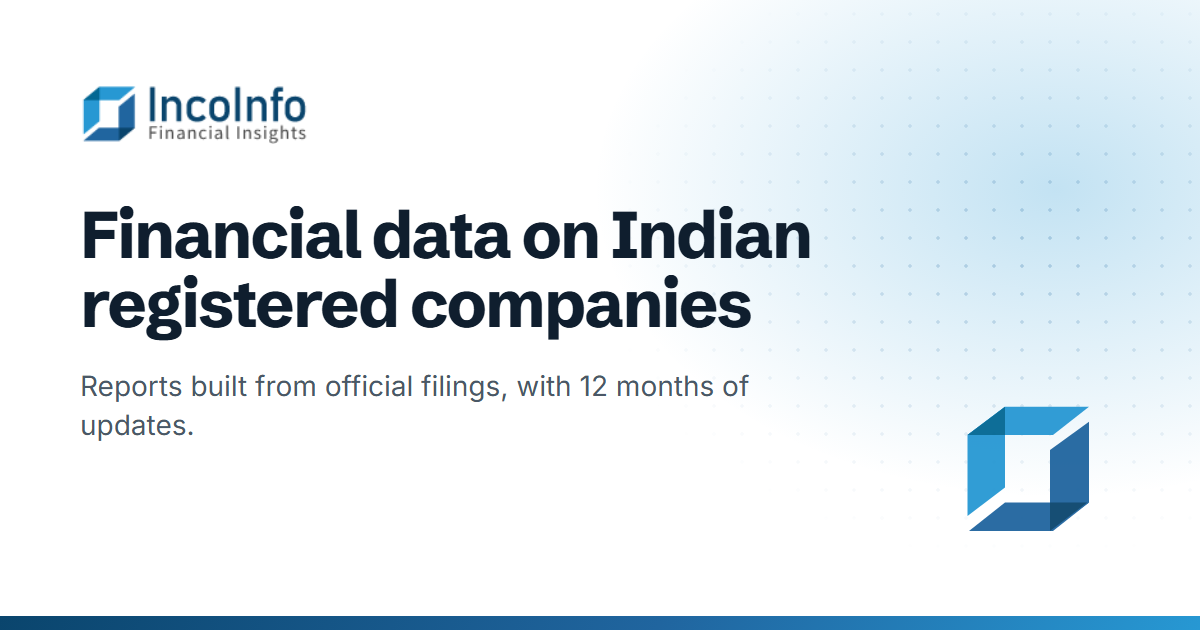
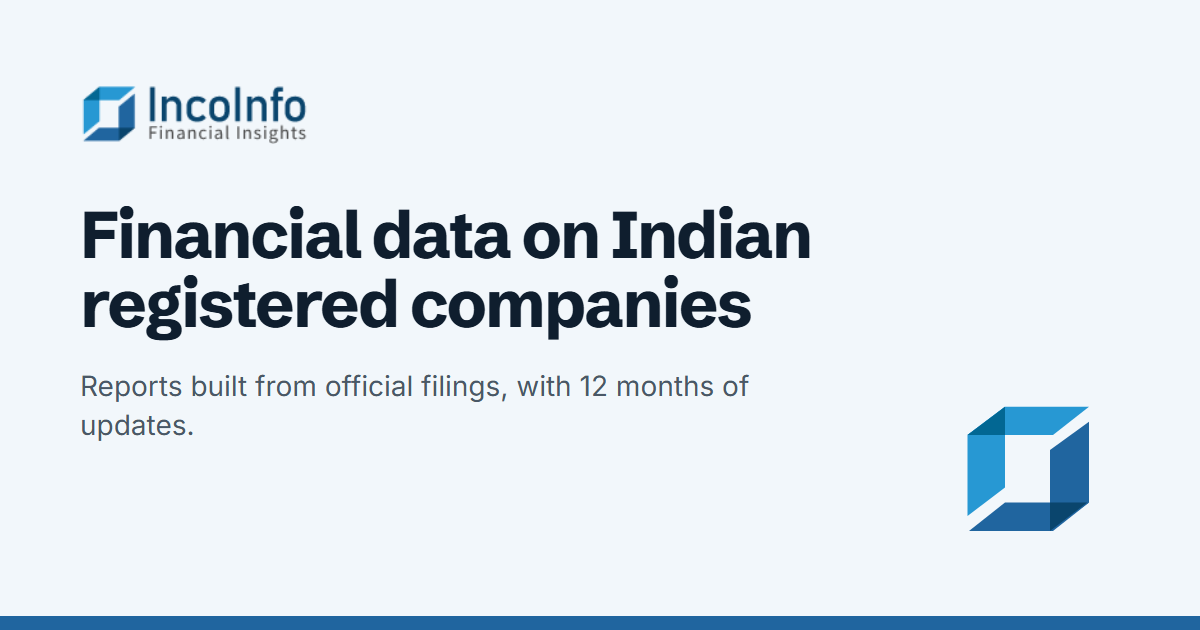
Smaller section headings; replace gradients with plain brand colours; remove background glows

Changed region(s): [[0.7092, 0.0905, 1.0, 0.4825], [0.74, 0.9651, 1.0, 1.0], [0.0, 0.9651, 0.2775, 1.0]]

diff --git a/src/styles/home.css b/src/styles/home.css
@@ -6,27 +6,6 @@
     padding-top: calc(var(--nav-h) + clamp(28px, 4vw, 56px));
     padding-bottom: clamp(40px, 5vw, 64px);
   }
-  .hero-bg { position: absolute; inset: 0; z-index: -1; pointer-events: none; }
-  .hero-dots {
-    position: absolute; inset: 0;
-    background-image: radial-gradient(rgb(32 101 159 / 0.22) 1px, transparent 1.3px);
-    background-size: 24px 24px;
-    mask-image: radial-gradient(ellipse 60% 70% at 72% 42%, #000 10%, transparent 70%);
-    -webkit-mask-image: radial-gradient(ellipse 60% 70% at 72% 42%, #000 10%, transparent 70%);
-  }
-  .hero-glow {
-    position: absolute; width: 760px; height: 560px; right: -160px; top: 40px;
-    background:
-      radial-gradient(closest-side, rgb(39 152 211 / 0.30), transparent 70%),
-      radial-gradient(closest-side at 30% 70%, rgb(32 101 159 / 0.22), transparent 70%);
-    filter: blur(20px);
-    animation: glow-drift 18s ease-in-out infinite alternate;
-  }
-  @keyframes glow-drift {
-    from { transform: translate3d(0, 0, 0) scale(1); }
-    to { transform: translate3d(-60px, 30px, 0) scale(1.08); }
-  }
-  .hero.is-offscreen .hero-glow { animation-play-state: paused; }
 
   .hero-grid { display: grid; gap: clamp(32px, 4vw, 56px); align-items: center; }
   .hero-grid > * { min-width: 0; }
@@ -66,7 +45,7 @@
   .profile-avatar {
     flex: none; width: 42px; height: 42px; border-radius: 12px;
     display: grid; place-items: center;
-    background: var(--gradient-brand); color: #fff;
+    background: var(--color-brand-700); color: #fff;
     font-family: var(--font-display); font-weight: 700; font-size: 0.9375rem;
   }
   .profile-name { font-weight: 650; font-size: 0.96875rem; line-height: 1.3; color: var(--color-ink); }
@@ -167,7 +146,7 @@
   .report-actions { margin-top: 2rem; }
 
   .report { padding: 0; overflow: hidden; background: #fff; }
-  .report-top { padding: 1.25rem 1.25rem 0; border-bottom: 1px solid var(--color-line); background: linear-gradient(#fff, #fbfdfe); }
+  .report-top { padding: 1.25rem 1.25rem 0; border-bottom: 1px solid var(--color-line); background: #fff; }
   .report-id { display: flex; align-items: center; gap: 0.75rem; }
   .report-name { font-weight: 650; font-size: 1.0625rem; line-height: 1.3; }
   .report-meta { display: flex; flex-wrap: wrap; gap: 0.25rem 1rem; font-size: 0.8125rem; color: var(--color-ink-muted); }
@@ -244,7 +223,7 @@
     content: ""; position: absolute; left: 21px; top: 22px; bottom: 22px; width: 2px; border-radius: 2px;
   }
   .steps::before { background: var(--color-line); }
-  .steps::after { background: var(--gradient-brand); transform-origin: top; transform: scaleY(var(--p, 1)); }
+  .steps::after { background: var(--color-brand-700); transform-origin: top; transform: scaleY(var(--p, 1)); }
   .step { position: relative; }
   .step h3 { font-size: 1.1875rem; }
   .step p { margin-top: 0.5rem; color: var(--color-ink-muted); font-size: 0.96875rem; max-width: 40ch; }
@@ -268,7 +247,7 @@
   }
 
   /* ================= TRUST BAR ================= */
-  .trust { border-block: 1px solid var(--color-line); background: linear-gradient(#fff, var(--color-surface-tint)); }
+  .trust { border-block: 1px solid var(--color-line); background: var(--color-surface-tint); }
   .trust-stats { display: grid; grid-template-columns: repeat(2, minmax(0, 1fr)); }
   .trust-stats > div { padding: 1.25rem 1rem 1.25rem 0; display: flex; flex-direction: column-reverse; justify-content: flex-end; gap: 0.25rem; }
   .trust-stats dd {
@@ -311,7 +290,6 @@
     .marquee { mask-image: none; -webkit-mask-image: none; }
     .marquee-track { flex-wrap: wrap; animation: none; padding-inline: 20px; max-width: 1240px; margin-inline: auto; }
     .marquee-track[aria-hidden="true"] { display: none; }
-    .hero-glow { animation: none; }
   }
 }
 

diff --git a/index.html b/index.html
@@ -22,10 +22,6 @@
     <main id="main">
       <!-- ============ HERO ============ -->
       <section class="hero" aria-labelledby="hero-title">
-        <div class="hero-bg" aria-hidden="true">
-          <div class="hero-dots"></div>
-          <div class="hero-glow"></div>
-        </div>
 
         <div class="container-x hero-grid">
           <div class="hero-copy">
@@ -78,20 +74,9 @@
                   <span class="badge badge-neutral num">FY21–FY25</span>
                 </div>
                 <svg viewBox="0 0 320 96" preserveAspectRatio="none" class="spark">
-                  <defs>
-                    <linearGradient id="spark-stroke" x1="0" x2="1">
-                      <stop offset="0" stop-color="#0A456D" />
-                      <stop offset=".55" stop-color="#20659F" />
-                      <stop offset="1" stop-color="#2798D3" />
-                    </linearGradient>
-                    <linearGradient id="spark-fill" x1="0" x2="0" y1="0" y2="1">
-                      <stop offset="0" stop-color="#2798D3" stop-opacity=".22" />
-                      <stop offset="1" stop-color="#2798D3" stop-opacity="0" />
-                    </linearGradient>
-                  </defs>
                   <g class="spark-grid" fill="none"><line x1="0" x2="320" y1="24" y2="24" /><line x1="0" x2="320" y1="56" y2="56" /><line x1="0" x2="320" y1="88" y2="88" /></g>
-                  <path class="spark-area" d="M4 80 L82 68 L160 50 L238 36 L316 18 L316 96 L4 96 Z" fill="url(#spark-fill)" />
-                  <path class="spark-line" d="M4 80 L82 68 L160 50 L238 36 L316 18" fill="none" stroke="url(#spark-stroke)" stroke-width="3" stroke-linecap="round" stroke-linejoin="round" pathLength="1" />
+                  <path class="spark-area" d="M4 80 L82 68 L160 50 L238 36 L316 18 L316 96 L4 96 Z" fill="#2798D3" fill-opacity=".12" />
+                  <path class="spark-line" d="M4 80 L82 68 L160 50 L238 36 L316 18" fill="none" stroke="#20659F" stroke-width="3" stroke-linecap="round" stroke-linejoin="round" pathLength="1" />
                   <g class="spark-dots"><circle cx="4" cy="80" r="3.5" /><circle cx="82" cy="68" r="3.5" /><circle cx="160" cy="50" r="3.5" /><circle cx="238" cy="36" r="3.5" /><circle cx="316" cy="18" r="4.5" /></g>
                 </svg>
               </div>

diff --git a/src/styles/pages.css b/src/styles/pages.css
@@ -5,17 +5,8 @@
     position: relative; isolation: isolate; overflow: hidden;
     padding-top: calc(var(--nav-h) + clamp(24px, 3.5vw, 48px));
     padding-bottom: clamp(36px, 4.5vw, 56px);
-    background:
-      radial-gradient(ellipse 60% 80% at 85% 10%, rgb(39 152 211 / 0.12), transparent 70%),
-      linear-gradient(#fff, var(--color-surface-tint));
+    background: var(--color-surface-tint);
     border-bottom: 1px solid var(--color-line);
-  }
-  .page-hero::before {
-    content: ""; position: absolute; inset: 0; z-index: -1;
-    background-image: radial-gradient(rgb(32 101 159 / 0.18) 1px, transparent 1.3px);
-    background-size: 24px 24px;
-    mask-image: radial-gradient(ellipse 50% 70% at 85% 30%, #000, transparent 70%);
-    -webkit-mask-image: radial-gradient(ellipse 50% 70% at 85% 30%, #000, transparent 70%);
   }
   .page-hero h1 { font-size: clamp(2.125rem, 1.4rem + 2.8vw, 3.5rem); max-width: 20ch; }
   .page-hero .lede { margin-top: 1.25rem; }
@@ -115,7 +106,7 @@
   .flow-arrow { display: grid; place-items: center; color: var(--color-brand-400); }
   .flow-arrow .icon { width: 1.75rem; height: 1.75rem; }
   @media (max-width: 899px) { .flow-arrow { transform: rotate(90deg); } }
-  .flow-engine { padding: 1.75rem; text-align: left; background: var(--gradient-brand); color: #fff; border-radius: var(--radius-float); box-shadow: var(--shadow-float); }
+  .flow-engine { padding: 1.75rem; text-align: left; background: var(--color-brand-900); color: #fff; border-radius: var(--radius-float); box-shadow: var(--shadow-float); }
   .flow-engine h3 { color: #fff; }
   .flow-engine p { margin-top: 0.5rem; color: rgb(255 255 255 / 0.88); font-size: 0.9375rem; }
   .flow-engine ul { margin-top: 1rem; display: grid; gap: 0.375rem; font-size: 0.9375rem; }

diff --git a/src/styles/layout.css b/src/styles/layout.css
@@ -36,7 +36,7 @@
   /* current section: a small facet bar from the logo palette */
   .nav-link.is-current::after {
     content: ""; position: absolute; left: 0.75rem; right: 0.75rem; bottom: 2px; height: 2px; border-radius: 2px;
-    background: linear-gradient(90deg, #2798d3 0 33%, #20659f 33% 66%, #0a456d 66%);
+    background: var(--color-brand-700);
   }
 
   .nav-panel {
@@ -106,15 +106,9 @@
   /* ---------- Final CTA band ---------- */
   .final-cta {
     position: relative; overflow: hidden; isolation: isolate;
-    background: var(--gradient-brand);
+    background: var(--color-brand-900);
     color: #fff; text-align: center;
     padding-block: clamp(56px, 7vw, 88px);
-  }
-  .final-cta-grid {
-    position: absolute; inset: 0; z-index: -1; opacity: 0.35;
-    background-image: radial-gradient(rgb(255 255 255 / 0.5) 1px, transparent 1.2px);
-    background-size: 22px 22px;
-    mask-image: radial-gradient(ellipse 70% 80% at 50% 40%, #000 20%, transparent 75%);
   }
   .final-cta h2 { color: #fff; max-width: 20ch; margin-inline: auto; }
   .final-cta p { margin: 1.25rem auto 0; max-width: 52ch; font-size: clamp(1.0625rem, 1rem + 0.3vw, 1.1875rem); color: rgb(255 255 255 / 0.88); }

diff --git a/src/styles/components.css b/src/styles/components.css
@@ -50,20 +50,11 @@
 
   .btn-primary {
     color: #fff;
-    background: var(--gradient-brand);
-    background-size: 140% 100%;
-    box-shadow: 0 1px 0 rgb(255 255 255 / 0.18) inset, 0 6px 16px -6px rgb(10 69 109 / 0.55);
-    overflow: hidden;
+    background: var(--color-brand-700);
+    box-shadow: 0 6px 16px -8px rgb(10 69 109 / 0.5);
   }
-  .btn-primary:hover { box-shadow: 0 1px 0 rgb(255 255 255 / 0.18) inset, 0 12px 24px -8px rgb(10 69 109 / 0.6); }
+  .btn-primary:hover { background: var(--color-brand-800); box-shadow: 0 10px 22px -10px rgb(10 69 109 / 0.55); }
   .btn-primary:active { transform: translateY(1px) scale(0.99); }
-  /* shine sweep */
-  .btn-primary::after {
-    content: ""; position: absolute; inset: 0; z-index: -1;
-    background: linear-gradient(100deg, transparent 30%, rgb(255 255 255 / 0.28) 50%, transparent 70%);
-    transform: translateX(-120%);
-  }
-  .btn-primary:hover::after { transform: translateX(120%); transition: transform 0.8s var(--ease-out-soft); }
 
   .btn-secondary {
     color: var(--color-ink);

diff --git a/src/styles/main.css b/src/styles/main.css
@@ -53,7 +53,6 @@
 }
 
 :root {
-  --gradient-brand: linear-gradient(120deg, #0a456d 0%, #20659f 55%, #2798d3 100%);
   --nav-h: 72px;
 }
 
@@ -82,7 +81,7 @@
     font-weight: 700;
   }
   h1 { font-size: clamp(2.375rem, 1.5rem + 3.6vw, 4.25rem); line-height: 1.04; letter-spacing: -0.03em; font-weight: 750; }
-  h2 { font-size: clamp(1.875rem, 1.35rem + 2.1vw, 3rem); line-height: 1.1; letter-spacing: -0.025em; }
+  h2 { font-size: clamp(1.5rem, 1.25rem + 1vw, 2.125rem); line-height: 1.15; letter-spacing: -0.025em; }
   h3 { font-size: clamp(1.1875rem, 1.1rem + 0.35vw, 1.375rem); line-height: 1.3; letter-spacing: -0.01em; font-weight: 650; }
   h4 { font-size: 1.0625rem; line-height: 1.35; font-weight: 650; }
   p { text-wrap: pretty; }

diff --git a/src/js/hero.js b/src/js/hero.js
@@ -35,12 +35,6 @@ function drawWires(root) {
 }
 
 export default function initHero(root) {
-  const hero = root.closest('.hero')
-  // pause ambient glow when off-screen
-  if (hero && 'IntersectionObserver' in window) {
-    new IntersectionObserver(([e]) => hero.classList.toggle('is-offscreen', !e.isIntersecting)).observe(hero)
-  }
-
   let wires = drawWires(root)
   let resizeRaf
   let firstObservation = true

diff --git a/partials/final-cta.html b/partials/final-cta.html
@@ -1,5 +1,4 @@
 <section class="final-cta" aria-labelledby="final-cta-title">
-  <div class="final-cta-grid" aria-hidden="true"></div>
   <div class="container-x final-cta-inner" data-reveal>
     <h2 id="final-cta-title">Check a company before you sign, lend or invest</h2>
     <p>Search by name, CIN or director. Buy only the companies you need, and get every new filing they make for the next 12 months.</p>

diff --git a/CLAUDE.md b/CLAUDE.md
@@ -27,7 +27,7 @@ A static marketing site for IncoInfo (company reports on Indian registered compa
 | `line` | `#DCE6EF` | 1px borders |
 | success / warn / danger | `#1F7A4D` / `#A15C00` / `#B42318` | Status chips only |
 
-- Gradient: `120deg, #0A456D → #20659F 55% → #2798D3`. Use it only for the hero glow, primary CTA, chart strokes and the final CTA band.
+- **No gradients.** Use plain colours only: primary buttons are `brand-700` (hover `brand-800`), the final CTA band and the data-flow card are `brand-900`, and section backgrounds are white or `surface-tint`. Do not add glows or gradient washes to backgrounds.
 - **White base, accents from the logo.** No colours from outside the logo, apart from the status chips.
 
 ## Design conventions
